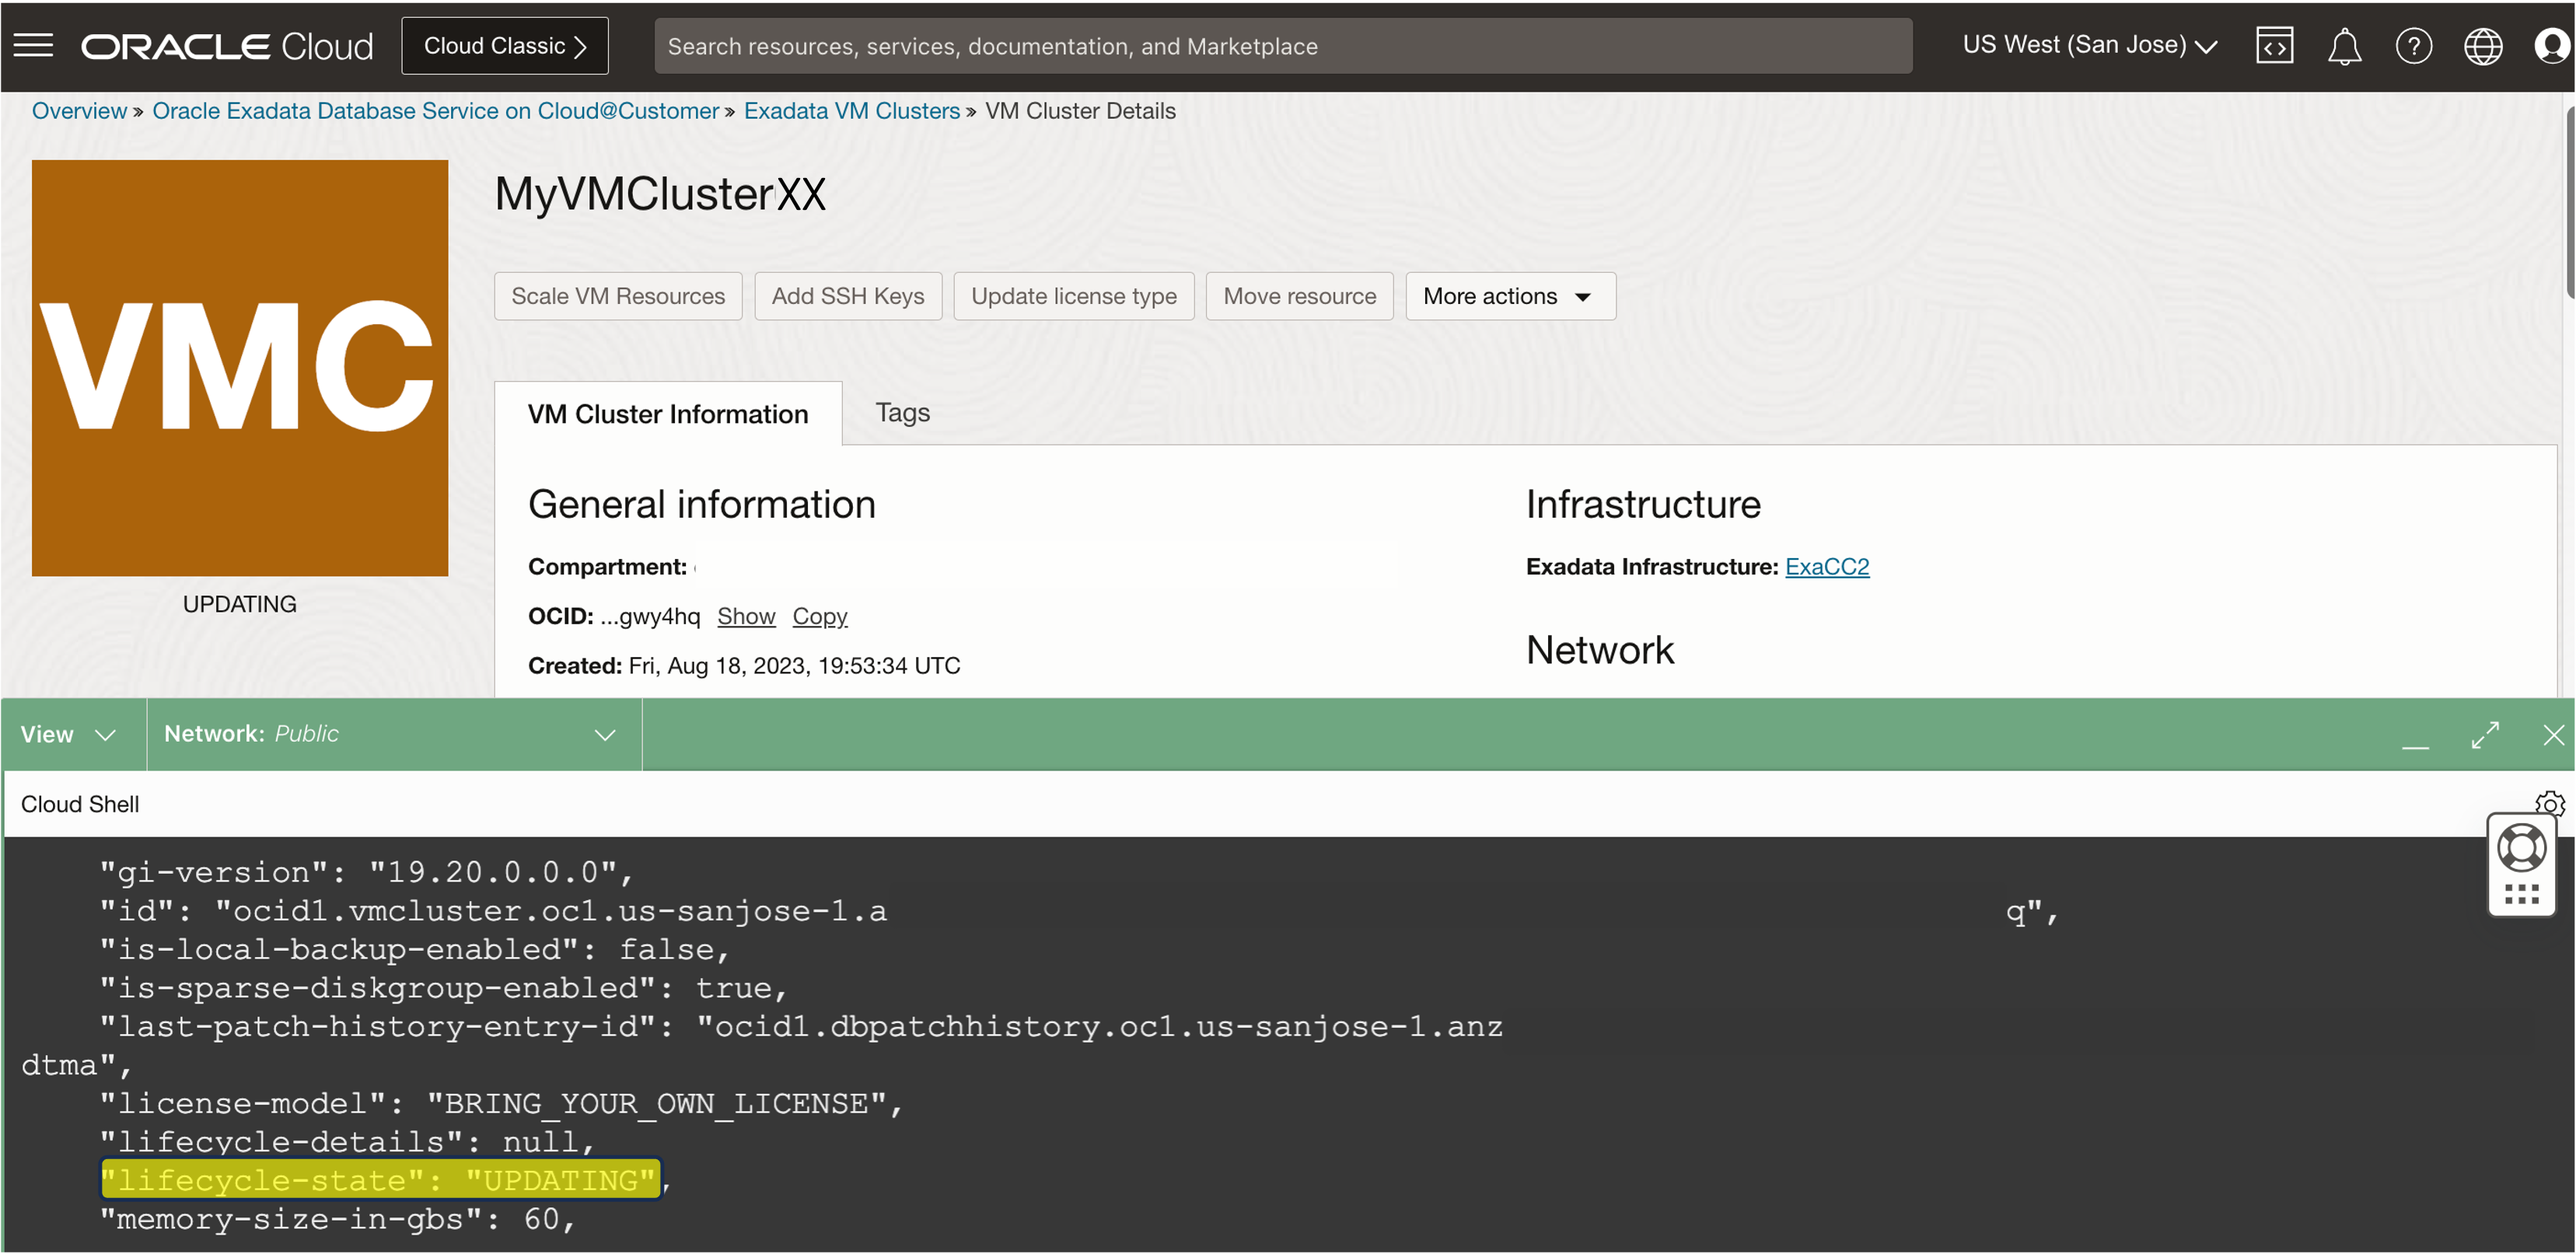
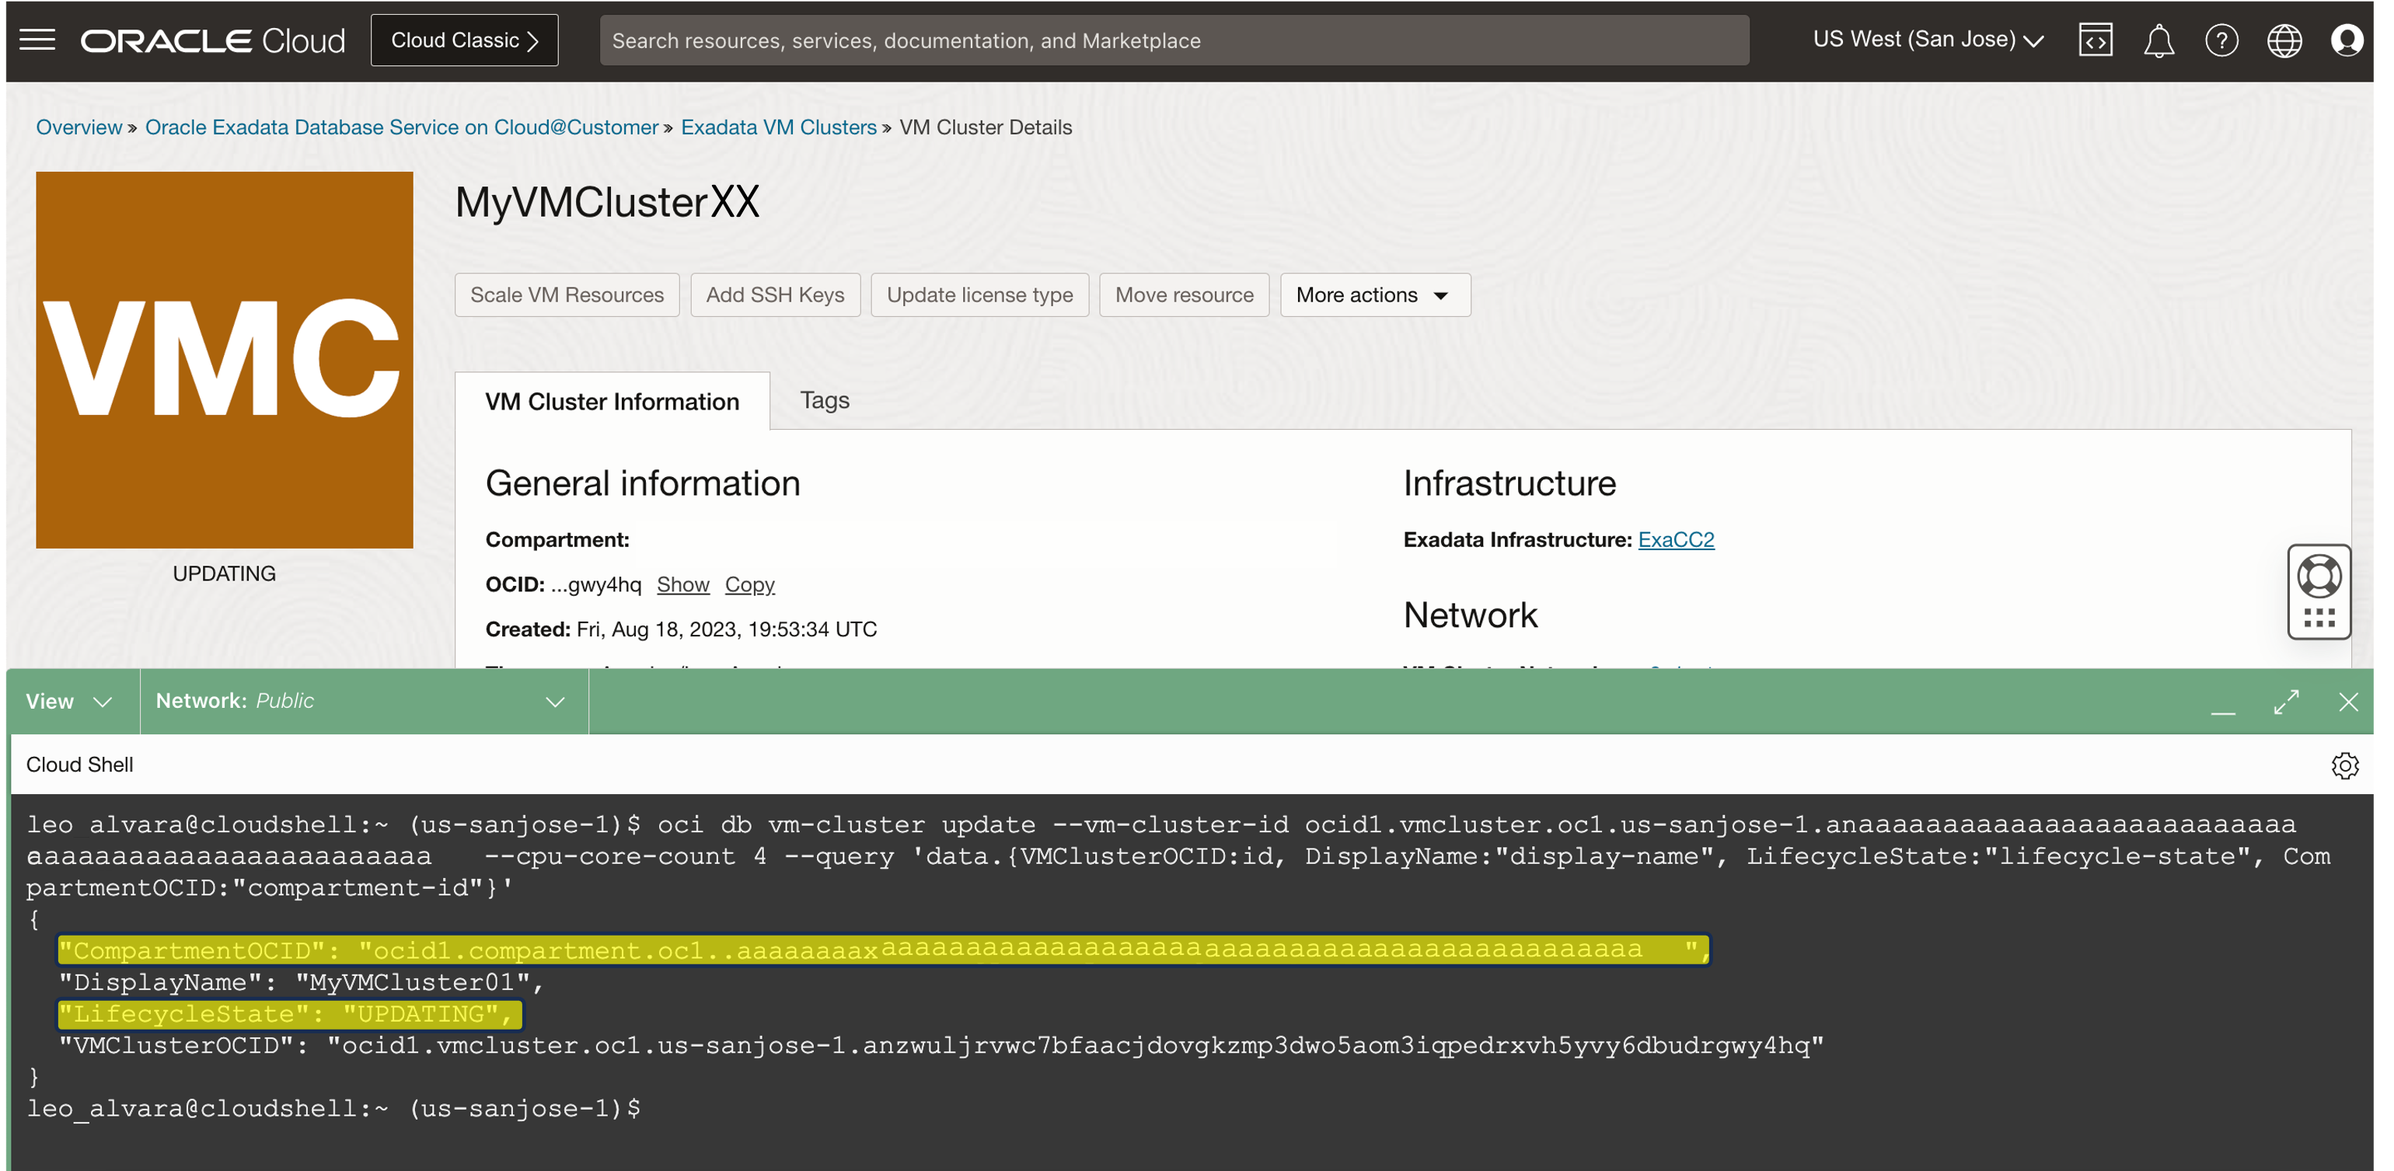
added changes to masterclass

Changed region(s): [[0.0, 0.2183, 1.0, 1.0], [0.0, 0.0, 1.0, 0.2495], [0.5922, 0.3743, 0.7169, 0.4678]]

diff --git a/exadata-database-service-on-cc-masterclass/discover-env-details-api/discover-env-details-api.md b/exadata-database-service-on-cc-masterclass/discover-env-details-api/discover-env-details-api.md
@@ -18,7 +18,7 @@ Estimated Time: 10 minutes
 
 This lab requires the completion of the following:
 
-* Completion of **Lab6**
+* Completion of **Lab 6**
 
 ## Task 1: List the available Database Homes in a compartment using REST API
 
@@ -29,36 +29,58 @@ This lab requires the completion of the following:
 
 2. Make an OCI REST API call to get a list of available Database Homes in a compartment by running the **OCI RAW-REQUEST** command below:
    
-    > **Note:** Replace the **"{CompartmentOCID}"** with the **Compartment OCID** obtained from *Lab3*.
+    > **Note:** Replace the API endpoint region "***{region}***" with your **assigned region** and ***"{CompartmentOCID}"*** with the **Compartment OCID** obtained from ***Lab6***.
    
       ```
       <copy>
 
-          oci raw-request --http-method GET --target-uri "https://database.us-sanjose-1.oraclecloud.com/20160918/dbHomes?compartmentId={CompartmentOCID}&limit=10"
+          oci raw-request --http-method GET --target-uri "https://database.us-{region}-1.oraclecloud.com/20160918/dbHomes?compartmentId={CompartmentOCID}&lifecycleState=AVAILABLE&limit=10"
 
       </copy>
       ```
-3. You will see a similar output as below. Having a Response *"status": "200 OK"* means the request was successfully received and was able to get a list of all available DB Homes in the specified compartment.
-
-4. Look for the Database Home named **MyCustomDBHome** and Copy the **Custom Database Home OCID** value from the **"id"** field and paste it in your notepad or text editor for later use. 
-
-    ![list available dbhomes](./images/list-dbhome.png " ")
-
-## Task 2: List all the Pluggable Databases in a Container Database using REST API
-
-1. From the Cloud Shell terminal, make an OCI REST API call to get a list of the Pluggable Databases in a Container Database by running the **OCI RAW-REQUEST** command below:
+3. You will see a similar output as below. Having a Response ***"status": "200 OK"*** means the request was successfully received and was able to get a list of all available DB Homes in the specified compartment.
    
-    > **Note:** Replace the **"{ContainerDatabaseOCID}"** with the **Container Database OCID**
+   ![list available dbhomes](./images/list-dbhome.png " ")
+
+   Look for the Database Home with the **displayName** named ***MyCustomDBHome***. 
+   
+   Observe the following objects and values from the API response such as: 
+   
+      * ***databaseSoftwareImageId*** - If this field is populated then this is the **Custom Database Software Image** used for the Database Home  
+      * ***dbVersion*** - The **Database Version** of the Database Home
+
+
+## Task 2: List all the Container Databases in a Compartment
+
+1. From the Cloud Shell terminal, run the **OCI CLI command** below to get a list of the Container Databases in a Compartment.
+   
+    > **Note:** Replace the ***"{CompartmentID}"*** with the **Compartment OCID** used in ***Task 1***
    
       ```
         <copy>
 
-          oci raw-request --http-method GET --target-uri "https://database.us-sanjose-1.oraclecloud.com/20160918/pluggableDatabases?databaseId={ContainerDatabaseOCID}&limit=10"
+          oci db database list --compartment-id {CompartmentID}  --query "data[*].{ContainerDatabase:\"db-name\",ContainerDatabaseOCID:id,State:\"lifecycle-state\"}" --output table
 
         </copy>
       ```
-    
-     
+
+2. You will see a similar output as below. Copy the **Container Database OCID** value and paste it in your notepad or text editor. 
+   
+   ![list pluggable database](./images/list-all-cdb-in-compartment.png " ")
+
+## Task 3: List all the Pluggable Databases in a Container Database using REST API
+
+1. From the Cloud Shell terminal, make an OCI REST API call to get a list of the Pluggable Databases in a Container Database by running the **OCI RAW-REQUEST** command below:
+   
+    > **Note:** Replace the API endpoint region "***{region}***" with your **assigned region** and ***"{ContainerDatabaseOCID}"*** with the **Container Database OCID** obtained from ***Task 2***
+   
+      ```
+        <copy>
+
+          oci raw-request --http-method GET --target-uri "https://database.us-{region}-1.oraclecloud.com/20160918/pluggableDatabases?databaseId={ContainerDatabaseOCID}&limit=10"
+
+        </copy>
+      ```
 
 2. You will see a similar output as below. Having a Response *"status": "200 OK"* means the request was successfully received and was able to get a list of all the pluggable databases in the specified container database. 
    
@@ -67,7 +89,7 @@ This lab requires the completion of the following:
     ![list pluggable database](./images/getpdb.png " ")
 
     
-## Task 3: Clone and start a pluggable database (PDB) in the same database (CDB) using REST API
+## Task 4: Clone and start a pluggable database (PDB) in the same database (CDB) using REST API
 
 1. From the Cloud Shell terminal, create the JSON file for the REST API request body that contains the local clone pluggable database details resource.
 
@@ -76,7 +98,7 @@ This lab requires the completion of the following:
     ```
       <copy>
 
-        cat clonepdb.json
+        cat MyClonePDB.json
 
       </copy>
       ```
@@ -84,12 +106,12 @@ This lab requires the completion of the following:
 
 2. Make an OCI REST API call to clone and start a pluggable database (PDB) in the same container database (CDB) by running the **OCI RAW-REQUEST** command below:
    
-    > **Note:** Replace the **"{pluggableDatabaseID}"** with the **Pluggable Database OCID** copied from *(Task1 Step 4)*
+    > **Note:** Replace the API endpoint region "***{region}***" with your **assigned region** and ***"{pluggableDatabaseID}"*** with the **Pluggable Database OCID** copied from *(Task3 Step 3)*
    
       ```
       <copy>
 
-        oci raw-request --http-method POST --target-uri "https://database.us-sanjose-1.oraclecloud.com/20160918/pluggableDatabases/{pluggableDatabaseID}/actions/localClone" --request-body file://clonepdb.json
+        oci raw-request --http-method POST --target-uri "https://database.us-sanjose-1.oraclecloud.com/20160918/pluggableDatabases/{pluggableDatabaseID}/actions/localClone" --request-body file://MyClonePDB.json
 
       </copy>
 
@@ -102,7 +124,7 @@ This lab requires the completion of the following:
   ![local clone pluggable database](./images/clonepdb.png " ")
 
 
-## Task 4: Discover Exadata VM Cluster Details using REST API
+## Task 5: Discover Exadata VM Cluster Details using REST API
 
 1. Open the Cloud Shell. This displays the Cloud Shell at the bottom of the console.
 
@@ -110,7 +132,7 @@ This lab requires the completion of the following:
 
 2. Make an OCI REST API call to get Exadata VM Cluster details by running the **OCI RAW-REQUEST** command below. 
    
-    > **Note:** Replace the **"{VMClusterOCID}"** with the **VM Cluster OCID** copied from *(Lab 3 Task 1 step 2)*
+    > **Note:** Replace the ***"{VMClusterOCID}"*** with the **VM Cluster OCID** copied from *(Lab 6 Task 1 step 2)*
 
 
     ```
@@ -130,7 +152,7 @@ This lab requires the completion of the following:
   "data": {
     "availabilityDomain": "cuGa:US-SANJOSE-1-AD-1",
     "compartmentId": "ocid1.compartment.oc1.....",
-    "cpusEnabled": 6,
+    "cpusEnabled": 4,
     "dataCollectionOptions": {
       "isDiagnosticsEventsEnabled": true,
       "isHealthMonitoringEnabled": true,
@@ -143,11 +165,11 @@ This lab requires the completion of the following:
     ```
 
 
-## Task 5: List the Maintenance Updates that can be applied to the specified VM Cluster using REST API
+## Task 6: List the Maintenance Updates that can be applied to the specified VM Cluster using REST API
 
 1. Make OCI REST API call to list maintenance updates that can be applied to the specified VM Cluster by running the **OCI RAW-REQUEST** Command below.
    
-    > **Note:** Replace the **"{VMClusterOCID}"** with the **VM Cluster OCID** copied from *(Lab 3 Task 1 step 2)*
+    > **Note:** Replace the ***"{VMClusterOCID}"*** with the **VM Cluster OCID** copied from *(Lab 6 Task 1 step 2)*
 
 
       ```

diff --git a/exadata-database-service-on-cc-masterclass/use-orm-generate-tf-dbstack/use-orm-generate-tf-dbstack.md b/exadata-database-service-on-cc-masterclass/use-orm-generate-tf-dbstack/use-orm-generate-tf-dbstack.md
@@ -17,7 +17,7 @@ Estimated Time: 20 minutes
 
 This lab requires the completion of the following:
 
-* Completion of **Lab10**
+* Completion of **Lab7**
 
 ## Task 1: Generate Terraform baseline configuration for Database development environment using OCI Resource Manager
 
@@ -254,25 +254,17 @@ This lab requires the completion of the following:
    
    ![Deploy Application Stack](./images/orm-deploy-application-stack.png " ")
 
-      * Choose your **assigned compartment**
-      * Provide the **Application Server display name**. For this lab, use the name ***MyAppServer***
+      * Choose your **Assigned compartment**
+      * Provide the **Application Server display name**. For this lab, use the name ***MyAppServer2***
       * Provide the **Custom Instance Image Source ID**. For DatabaseWorld, accept the default value
     
     Provide required variable details for the **Exadata Database Server Stack**.
    
-   ![Deploy Database CDB Stack](./images/orm-deploy-exadata-database-cdb.png " ")
-
-      * Provide the **Custom Database Software Image Home OCID**. Please see your ***MyEnvironment.txt*** from your cloud editor. 
-      * Provide the **Container Database display name**. For this lab, use the name ***MyCDB02***
-      * Provide the **Container Database unique name**. For this lab, use the name ***MyTFDB***
-      * Provide the **Container Database administrator password**
-   
    ![Deploy Database PDB Stack](./images/orm-deploy-exadata-database-pdb.png " ")
 
-      * Provide the **Pluggable Database (PDB1) display name**. For this lab, use the name  ***MyPDB1***
-      * Provide the **Pluggable Database (PDB2) display name**. For this lab, use the name  ***MyPDB2***
-      * Provide the **Pluggable Database (PDB3) display name**. For this lab, use the name  ***MyPDB3***
-      * Provide the **Pluggable Database administrator password**
+      * Provide the **Developer Container Database OCID**. For this lab, use the value for the ***MyCDB01*** 
+      * Provide the **Pluggable Database display name**. For this lab, use the name ***MyPDB2***
+      * Provide the **Pluggable Database administrator password** 
   
     Click on **Next**
 
@@ -316,7 +308,8 @@ This lab requires the completion of the following:
     >**Note:** This will cause the apply job to be created and our new Application and Database stack to be deployed once the job is completed.
 
     ![Stack Deployment Apply Succeeded ](./images/orm-apply-succeeded.png " ")
-    
+
+You may now **proceed to the next lab**
 
 <!--
 ## Learn More

diff --git a/exadata-database-service-on-cc-masterclass/enable-dataguard/enable-dataguard.md b/exadata-database-service-on-cc-masterclass/enable-dataguard/enable-dataguard.md
@@ -50,13 +50,15 @@ This lab requires completion of the following:
     
     **Select Peer VM Cluster**: 
 
-       * **Peer Region**: Select ***US East (Ashburn)*** for the peer region.
+       * **Peer Region**: Select your **assigned peer region** ***"US East (Ashburn) OR US West (San Jose)"***.
   
          >**Note:** The primary and standby databases could be running on two different VM clusters on a shared ExaDB-C@C system or on two geographically separated ExaDB-C@C systems managed from the same or different Oracle Cloud Infrastructure regions. For this lab, the primary and standby database will be running on a shared ExaDB-C@C system on the same region.
     
-       * **Exadata Cloud@Customer Infrastructure**: Select the Exadata Database Service on Cloud@Customer infrastructure where the standby database is located. Click the **Change Compartment** hyperlink and select ***OCW23ExaDBCC*** for the compartment. Select ***osc-rst-exacca*** for the Exadata Cloud@Customer Infrastructure
+       * **Exadata Cloud@Customer Infrastructure**: Select the Exadata Database Service on Cloud@Customer infrastructure where the standby database is located. Click the **Change Compartment** hyperlink and select ***OCW23ExaDBCC*** for the compartment. 
+         
+         Select your **assigned Exadata Cloud@Customer Infrastructure**. 
     
-       * **Peer VM Cluster**: Select the Exadata VM Cluster that contains the standby database. Click the **Change Compartment**, select ***MyStandByCompartment*** then select ***MyStandbyVMCluster*** for the Peer VM Cluster
+       * **Peer VM Cluster**: Select the Exadata VM Cluster that contains the standby database. Click the **Change Compartment**, select ***MyStandByCompartment_{Region}*** then select ***MyStandbyVMCluster*** for the Peer VM Cluster
   
    ![Select Peer VM Cluster](./images/select-peer-vmcluster.png " ")
     
@@ -75,7 +77,7 @@ This lab requires completion of the following:
 
     **Configure standby database**: Provide the unique name for the standby database. 
     
-       * Provide the **Database password**. For this lab, use the assigned password **Pass4-Student*XX*#** 
+       * Provide the **Database password**. For this lab, use the assigned password ***Pass4Stud3nt-#*** 
 
 6. Click **Enable Data Guard**.
 

diff --git a/exadata-database-service-on-cc-masterclass/scale-resources-using-oci-cli/scale-resources-using-oci-cli.md b/exadata-database-service-on-cc-masterclass/scale-resources-using-oci-cli/scale-resources-using-oci-cli.md
@@ -66,7 +66,7 @@ This lab requires the completion of the following:
     ```
     <copy>
 
-      oci db vm-cluster update --vm-cluster-id {vmClusterId} --cpu-core-count 4
+      oci db vm-cluster update --vm-cluster-id {vmClusterId} --cpu-core-count 4 --query 'data.{VMClusterOCID:id, DisplayName:"display-name", LifecycleState:"lifecycle-state", CompartmentOCID:"compartment-id"}'
 
     </copy>
     ```
@@ -75,11 +75,9 @@ This lab requires the completion of the following:
 
    After running the command, you will see similar output below.
 
-  ![status updating for scale number of ocpus](./images/scale-vm-cluster-updating.png " ")
+  ![LifecycleState of updating is displayed for scale number of ocpus](./images/scale-vm-cluster-updating.png " ")
 
-   While the scale up process is running, you can see the state of the VM cluster is changed to ***Updating***. Copy the **Compartment OCID** value from the **"compartmentId"** field and paste it in your notepad or text editor for later use.
-
-  ![copy compartment ocid](./images/copy-compartment-ocid.png " ")
+   While the scale up process is running, you can see the LifecycleState of the VM cluster is changed to ***Updating***. Copy the ***Compartment OCID*** from the extracted values of the OCI CLI command results and paste it in your notepad or text editor for later use.
 
 You may now **proceed to the next lab**
 

diff --git a/exadata-database-service-on-cc-masterclass/node-subsetting/node-subsetting.md b/exadata-database-service-on-cc-masterclass/node-subsetting/node-subsetting.md
@@ -21,7 +21,7 @@ Estimated Lab Time: 15 minutes
 
 This lab requires completion of the following:
 
-* Completion of **Lab7**
+* Completion of **Lab10**
 
 ## Task 1: Scale Exadata VM Cluster to run on a Subset of the available compute nodes 
 
@@ -33,10 +33,10 @@ This lab requires completion of the following:
 
 4. On the **Add Virtual Machines** page, select additional DB servers on which to add the VM.
    
-5. Select the DB servers with the **Available to add** status and then click **Save Changes**.
+      * Select the DB servers with the **Available to add** status and then click **Save Changes**.
 
+5. Note that the expansion of the VM Cluster will show the additional VM Capacity on the **VM Cluster Details page** and that the status of the VM Cluster will remain in the ***Updating*** state until the VMs are fully added.
 
-You may now **proceed to the next lab**
 
 ## Learn More
 
